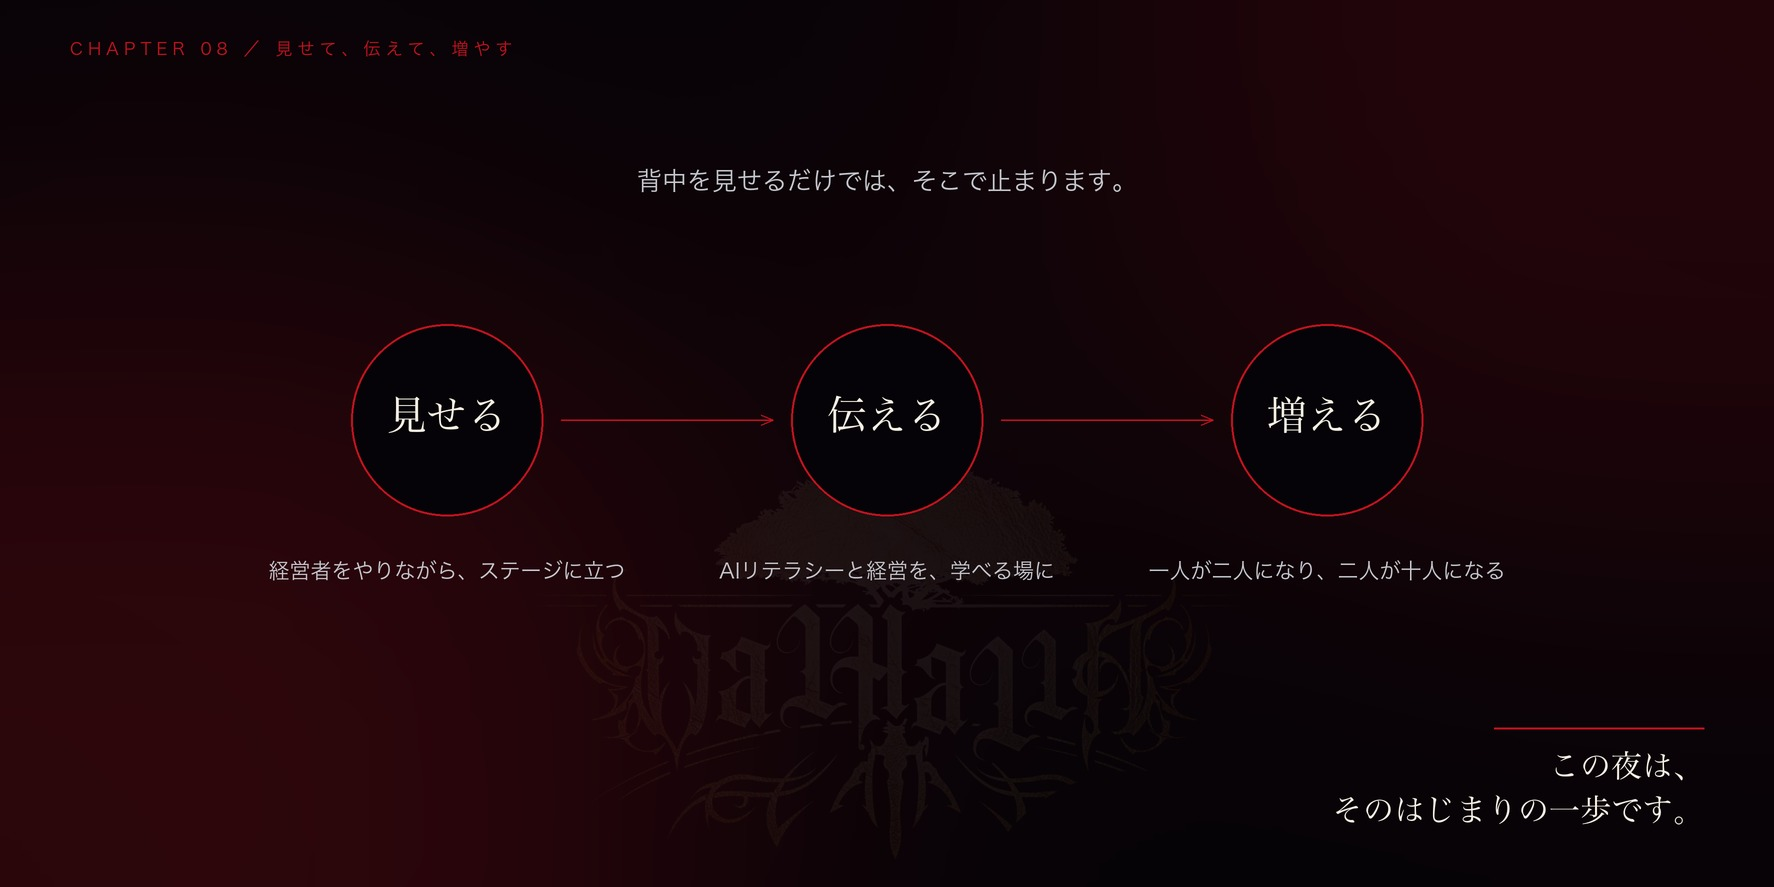
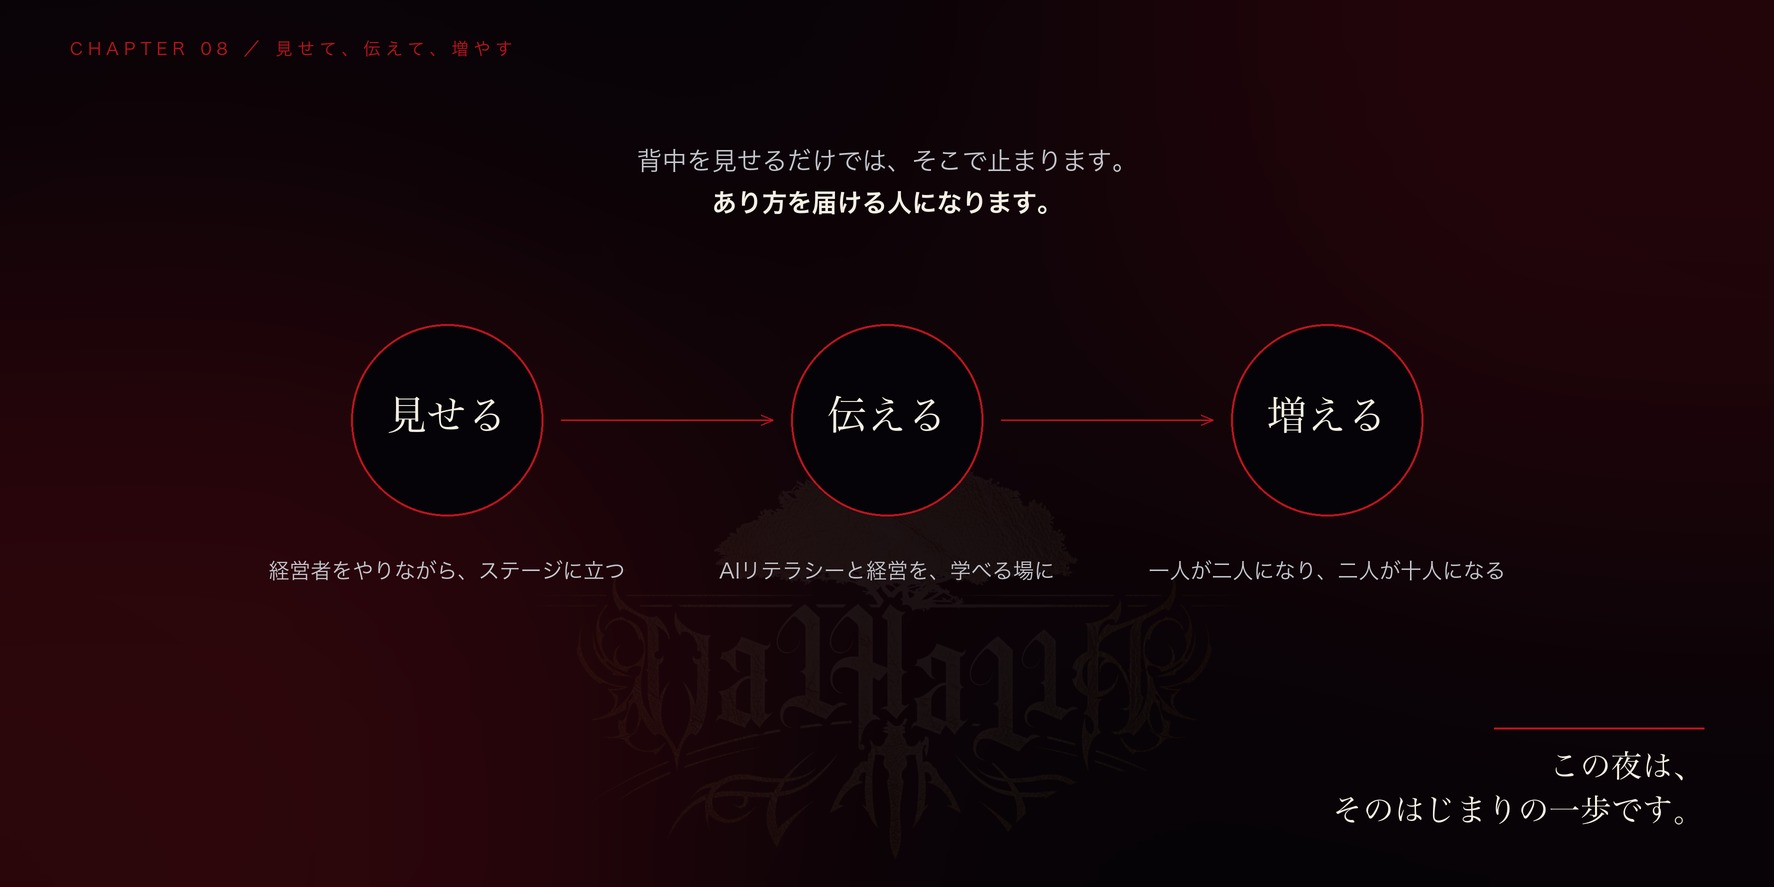
charity: pass on the stance, not the method

Changed region(s): [[0.341, 0.1522, 0.6201, 0.2435]]

diff --git a/assets/charity/create_chapter_banners.py b/assets/charity/create_chapter_banners.py
@@ -282,8 +282,10 @@ def ch08_pass(out: Path) -> None:
         node(d, (x, cy), r, width=2)
         centered(d, x, cy - 26, title, face(MINCHO, 40), CREAM)
         centered(d, x, cy + r + 44, sub, face(SANS, 21), SILVER)
-    centered(d, W / 2, 168, "背中を見せるだけでは、そこで止まります。",
+    centered(d, W / 2, 148, "背中を見せるだけでは、そこで止まります。",
              face(SANS, 25), SILVER)
+    centered(d, W / 2, 190, "あり方を届ける人になります。",
+             face(SANS_B, 25), CREAM)
     img = footer(img, ["この夜は、", "そのはじまりの一歩です。"])
     finish(img, out)
 

diff --git a/docs/campfire-project-body.md b/docs/campfire-project-body.md
@@ -353,7 +353,7 @@ AI が何でも答えてくれる時代に、
 
 その夜を、渋谷で鳴らします。
 
-### 8. 背中を見せること、やり方を伝えること
+### 8. 背中を見せること、あり方を伝えること
 
 このライブで私たちがやろうとしているのは、**まず背中を見せること**です。
 
@@ -366,7 +366,7 @@ AI が何でも答えてくれる時代に、
 〔※ 以下の段落は、**寄付先と学ぶ場の関係が確定してから**公開すること。
 　 支援金がこの学ぶ場の原資になると読める書き方は避ける。詳細は §5 の確認事項を参照〕
 
-**次は、やり方を伝える番です。**
+**次は、あり方を伝える番です。**
 
 私たちはいま、学ぶ場そのものをつくる準備を進めています。
 そこで学べるようにしたいのは、2つです。
